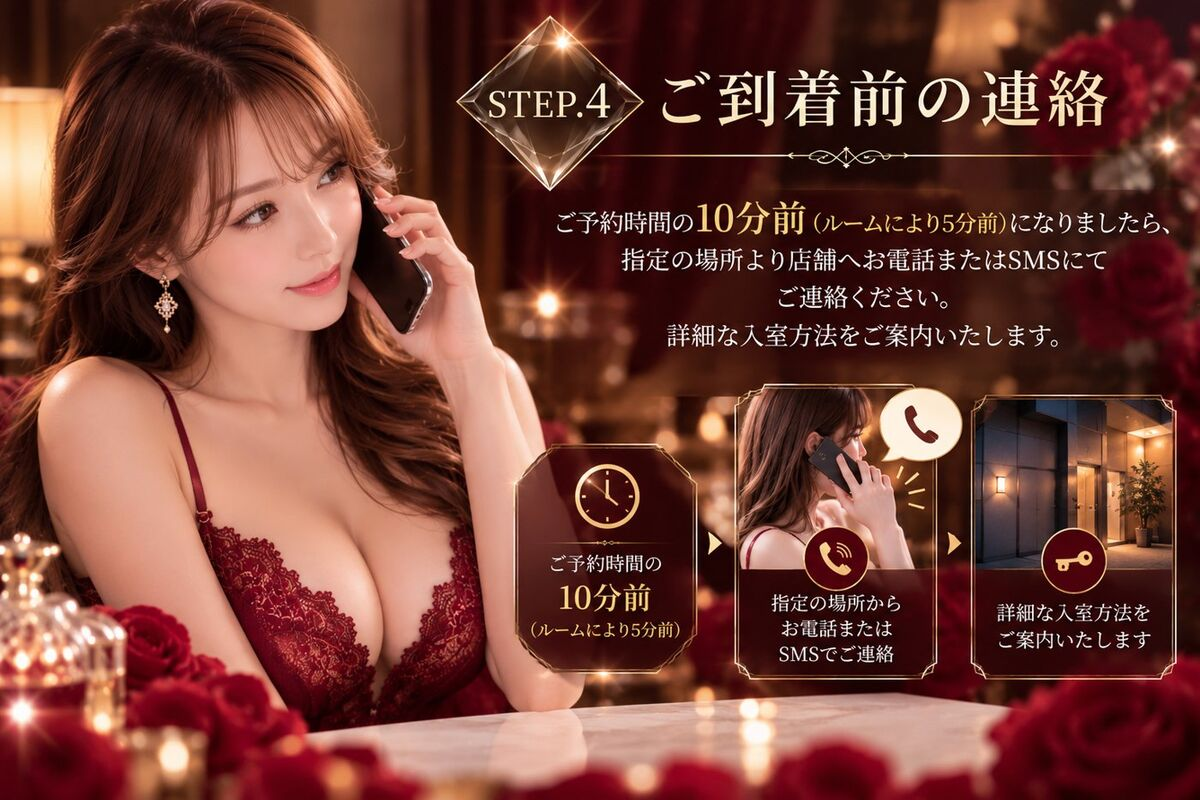
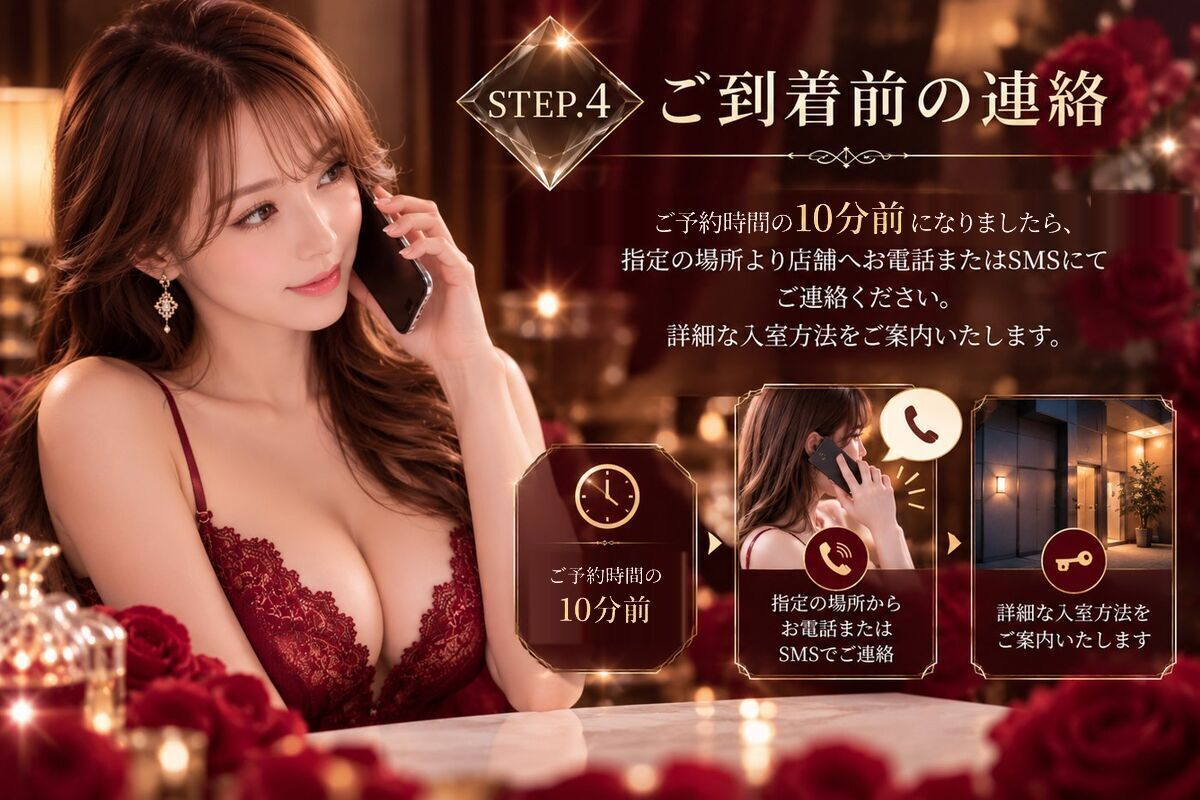
ルーム紹介ページを追加、「ルームにより5分前」の表記を削除 (#202)
- /room/ を新設（実際のルーム写真3枚：くつろぎスペース・施術スペース・バスルーム）。
  メニュー・フッター・サイトマップ・FAQ・トップの「癒やしの環境」から導線を追加
- トップの「癒やしの環境」の写真をイメージ写真から実際のルーム写真に差し替え
- ギャラリーに実際のルーム写真を追加
- ルームは1室のため「（ルームにより5分前）」を本文・トップ・STEP4画像から削除

Claude-Session: https://claude.ai/code/session_01UpCB7uCib8oiBmR56S5Apk

Changed region(s): [[0.4625, 0.2188, 1.0, 0.3125], [0.4317, 0.6875, 0.5858, 0.8125]]

diff --git a/app/room/page.jsx b/app/room/page.jsx
@@ -1,0 +1,145 @@
+// ルーム紹介（/room/）。写真はすべて実際のルーム（2026年11月撮影・オーナー提供）。
+// ※設備は写真で確認できるものだけを書く。推測で設備・アメニティを足さないこと。
+// ※色気のある表現はOK。ただし性的なサービスを連想させる表現は書かない
+//   （ご利用規約・FAQの「性的なサービスは一切行っておりません」と食い違うため）。
+// ※シャワーの利用時間（コース時間に含むか）は書かない（オーナー指示）。
+import SiteChrome from "../_components/SiteChrome";
+import NavGrid from "../_components/NavGrid";
+import Breadcrumbs from "../_components/Breadcrumbs";
+import { photoSrc } from "../_components/photo";
+import { SITE } from "../_lib/site";
+import { pageMetadata } from "../_lib/seo";
+
+export const metadata = pageMetadata("room");
+
+const SPACES = [
+  {
+    en: "Lounge",
+    h: "ふたりきりの、くつろぎ空間",
+    photo: "room-lounge.jpg",
+    w: 880,
+    h2: 660,
+    alt: "グレーのソファとラウンドテーブルのあるくつろぎスペース｜AROMA DIAMOND 亀戸",
+    p: [
+      "扉を閉めた瞬間から、ここはあなたとセラピストだけの時間。",
+      "壁に輝く DIAMOND のロゴに迎えられ、やわらかなソファに深く身を沈めれば、張りつめていた心がふっとほどけていきます。お着替え用のハンガーラックもご用意しています。",
+    ],
+  },
+  {
+    en: "Treatment",
+    h: "肌で感じる、とろける施術スペース",
+    photo: "room-bed.jpg",
+    w: 900,
+    h2: 1076,
+    alt: "ワイドなマットと黒いタオルで整えた施術スペース｜AROMA DIAMOND 亀戸",
+    p: [
+      "ゆったりと身体を伸ばせるワイドなマットに、黒で統一したタオル。",
+      "温めたアロマオイルがじんわりと肌になじみ、セラピストの指先がゆっくりと全身をたどるたびに、日々の疲れが溶けていく——。誰にも邪魔されない、大人のひとときをお愉しみください。",
+    ],
+  },
+  {
+    en: "Bath Room",
+    h: "シャワー完備のバスルーム",
+    photo: "room-bath.jpg",
+    w: 900,
+    h2: 1107,
+    alt: "シャワー・浴槽・洗面台のあるバスルーム｜AROMA DIAMOND 亀戸",
+    p: [
+      "清潔に整えた、シャワー・浴槽付きのバスルーム。",
+      "お仕事帰りでも、さっぱりとリフレッシュしていただけます。",
+    ],
+  },
+];
+
+const FACILITIES = [
+  ["ルーム", "1室のみの完全個室"],
+  ["くつろぎスペース", "ソファ・ラウンドテーブル・ハンガーラック"],
+  ["施術スペース", "ワイドマット・タオル"],
+  ["バスルーム", "シャワー・浴槽・洗面台"],
+  ["場所", `${SITE.station}${SITE.stationExit}から徒歩${SITE.walkMinutes}分（詳しい場所はご予約確定後にご案内）`],
+];
+
+export default function Room() {
+  return (
+    <div className="stage">
+      <div
+        className="device"
+        style={{ background: "#f4efe7 url(../bg-marble.jpg) top center / 100% auto repeat" }}
+      >
+        <Breadcrumbs items={[{ name: "ルーム紹介", path: "room/" }]} />
+
+        <div className="page-head">
+          <div className="ph-en">Room</div>
+          <h1 className="ph-jp">ルーム紹介</h1>
+        </div>
+
+        <NavGrid base="../" />
+
+        <section className="room-lead">
+          <p className="room-lead-catch">
+            1室だけの、
+            <br />
+            秘密の完全個室へ。
+          </p>
+          <p className="room-lead-p">
+            ブラックとホワイトで仕立てた、大人のためのプライベートルーム。
+            {SITE.station}{SITE.stationExit}から徒歩{SITE.walkMinutes}分、ほかの誰の目も気にせず、
+            アロマの香りとセラピストのぬくもりに身を委ねる——そんな贅沢な時間をご用意しています。
+          </p>
+        </section>
+
+        {SPACES.map((s, i) => (
+          <section className="room-space" key={s.photo}>
+            <div className="section-head">
+              <div className="sh-en">{s.en}</div>
+              <h2 className="sh-jp room-h">{s.h}</h2>
+            </div>
+            <div className="concept">
+              {/* eslint-disable-next-line @next/next/no-img-element */}
+              <img
+                className="concept-img"
+                src={photoSrc(s.photo, "../")}
+                alt={s.alt}
+                width={s.w}
+                height={s.h2}
+                loading={i === 0 ? "eager" : "lazy"}
+                decoding="async"
+              />
+              {s.p.map((t) => (
+                <p className="concept-p room-p" key={t}>
+                  {t}
+                </p>
+              ))}
+            </div>
+          </section>
+        ))}
+
+        <section className="rec-sec room-facts" aria-labelledby="room-facts-h">
+          <div className="rec-sec-h">
+            <span className="rec-sec-en">Facility</span>
+            <h2 className="rec-sec-jp" id="room-facts-h">ルーム設備</h2>
+          </div>
+          <table className="rec-table">
+            <tbody>
+              {FACILITIES.map(([k, v]) => (
+                <tr key={k}>
+                  <th>{k}</th>
+                  <td>{v}</td>
+                </tr>
+              ))}
+            </tbody>
+          </table>
+          <p className="img-note">※写真は実際のルームです</p>
+          <div className="hp-links">
+            <a className="hp-link" href="../system/">料金・コース</a>
+            <a className="hp-link" href="../flow/">ご利用の流れ</a>
+            <a className="hp-link" href="../schedule/">出勤情報</a>
+            <a className="hp-link hp-link-dark" href="../reserve/">WEB予約へ進む</a>
+          </div>
+        </section>
+
+        <SiteChrome base="../" />
+      </div>
+    </div>
+  );
+}

diff --git a/app/HomeClient.jsx b/app/HomeClient.jsx
@@ -80,7 +80,7 @@ const FIRST_STEPS = [
   },
   {
     t: "待ち合わせ・ご来店",
-    d: `${SITE.station}${SITE.stationExit}から亀戸十三間通りをお進みください。ご予約時間の10分前（ルームにより5分前）を目安に、セブン-イレブン亀戸十三間通り店に着きましたらお電話ください。お部屋までご案内します。`,
+    d: `${SITE.station}${SITE.stationExit}から亀戸十三間通りをお進みください。ご予約時間の10分前を目安に、セブン-イレブン亀戸十三間通り店に着きましたらお電話ください。お部屋までご案内します。`,
   },
   {
     t: "ご案内・施術",
@@ -516,8 +516,7 @@ export default function HomeClient() {
         </div>
         <section className="concept">
           {/* eslint-disable-next-line @next/next/no-img-element */}
-          <img className="concept-img" src={photoSrc("environment.jpg")} alt="落ち着いたプライベート空間のイメージ" width="1024" height="559" loading="lazy" decoding="async" />
-          <p className="img-note">※写真はイメージです</p>
+          <img className="concept-img" src={photoSrc("room-lounge.jpg")} alt="ソファでくつろげるAROMA DIAMOND 亀戸のルーム（実際の写真）" width="880" height="660" loading="lazy" decoding="async" />
           <h3 className="concept-h">
             完全個室の
             <br />
@@ -529,6 +528,9 @@ export default function HomeClient() {
             自分だけの隠れ家として、心と身体を解きほぐす特別な時間をお過ごしください。
           </p>
         </section>
+        <a className="more" href="room/">
+          ＞ ルーム紹介を見る ＜
+        </a>
 
         {/* ---------- RESERVATION ---------- */}
         <div className="section-head">

diff --git a/app/gallery/GalleryClient.jsx b/app/gallery/GalleryClient.jsx
@@ -8,8 +8,11 @@ const BASE = "../"; // /gallery/ はルートから1階層下
 // 表示する写真。実写真をいただければ public/ に追加し、この配列に足すだけで反映されます。
 // ※セラピスト個人の写真はここに直接書かない（退店・削除で画像が消えるとリンク切れになるため）。
 //   「みお」「花恋」は 2026/11/10 に管理画面から削除済みで、画像ファイルも無いため外した。
-// ※空間・イメージ写真は実際の店舗写真ではないため、キャプションに（イメージ）と明記する。
+// ※「ルーム｜」は実際のルーム写真。それ以外の空間・イメージ写真は実写ではないため（イメージ）と明記する。
 const GALLERY = [
+  { photo: "room-lounge.jpg", caption: "ルーム｜くつろぎスペース" },
+  { photo: "room-bed.jpg", caption: "ルーム｜施術スペース" },
+  { photo: "room-bath.jpg", caption: "ルーム｜バスルーム" },
   { photo: "environment.jpg", caption: "プライベート空間（イメージ）" },
   { photo: "concept.jpg", caption: "上質なひとときを（イメージ）" },
   { photo: "therapist-intro.jpg", caption: "セラピスト（イメージ）" },

diff --git a/app/globals.css b/app/globals.css
@@ -6653,3 +6653,42 @@ body:has(.rec-page) .aichat-fab {
   font-size: 11px;
   color: #7a6a52;
 }
+
+/* =========================================================
+   ルーム紹介（/room/）
+   ========================================================= */
+.room-lead {
+  position: relative;
+  z-index: 2;
+  margin: 18px 14px 4px;
+  padding: 22px 18px;
+  border: 1px solid #cdae62;
+  border-radius: 12px;
+  background: linear-gradient(135deg, #2a0a0d, #4a1218);
+  text-align: center;
+}
+.room-lead-catch {
+  margin: 0 0 12px;
+  font-family: var(--font-serif-jp), serif;
+  font-size: 21px;
+  font-weight: 600;
+  line-height: 1.7;
+  letter-spacing: 0.1em;
+  color: #edd39b;
+}
+.room-lead-p {
+  margin: 0;
+  font-family: var(--font-serif-jp), serif;
+  font-size: 13.5px;
+  line-height: 2;
+  text-align: left;
+  color: #f3e7cf;
+}
+.sh-jp.room-h {
+  font-size: 16px;
+  letter-spacing: 0.1em;
+}
+.concept-p.room-p { margin-top: 14px; }
+.concept-p.room-p + .concept-p.room-p { margin-top: 6px; }
+.room-facts { margin-top: 18px; }
+.room-facts .rec-table th { white-space: nowrap; }

diff --git a/app/first/page.jsx b/app/first/page.jsx
@@ -153,7 +153,7 @@ export default function FirstVisit() {
               <span className="no">STEP.4</span> ご到着前の連絡
             </div>
             <p>
-              ご予約時間の<b>10分前</b>（ルームにより5分前）になりましたら、
+              ご予約時間の<b>10分前</b>になりましたら、
               指定の場所より店舗へお電話またはSMSにてご連絡ください。
               詳細な入室方法をご案内いたします。
             </p>
@@ -164,7 +164,7 @@ export default function FirstVisit() {
               height="800"
               decoding="async"
               src={photoSrc("first-step4.jpg", "../")}
-              alt="STEP.4 ご到着前の連絡｜ご予約時間の10分前（ルームにより5分前）に、指定の場所からお電話またはSMSでご連絡ください"
+              alt="STEP.4 ご到着前の連絡｜ご予約時間の10分前に、指定の場所からお電話またはSMSでご連絡ください"
               loading="lazy"
             />
           </div>

diff --git a/app/_lib/seo.js b/app/_lib/seo.js
@@ -38,6 +38,12 @@ export const PAGES = {
     title: `アクセス・店舗案内｜亀戸駅徒歩${SITE.walkMinutes}分｜${BRAND}`,
     description: `AROMA DIAMOND（アロマダイヤモンド）は${WALK}、東京都江東区亀戸のメンズエステです。プライバシー保護のため、詳しい所在地はご予約確定後にご案内します。`,
   },
+  room: {
+    path: "room/",
+    title: `ルーム紹介｜${KAMEIDO} ${BRAND}`,
+    description: `AROMA DIAMOND（アロマダイヤモンド）亀戸のルーム紹介。${WALK}、1室だけの完全個室。ソファでくつろげる空間、ゆったりとした施術スペース、シャワー完備のバスルームを実際の写真でご紹介します。`,
+    image: "room-lounge.jpg",
+  },
   flow: {
     path: "flow/",
     title: `ご利用の流れ｜${KAMEIDO} ${BRAND}`,

diff --git a/app/_components/SiteChrome.jsx b/app/_components/SiteChrome.jsx
@@ -20,7 +20,8 @@ const DRAWER = [
   { jp: "スタッフ求人", slug: "careers" },
   { jp: "料金システム", slug: "system" },
   { jp: "セラピスト求人", slug: "recruit" },
-  { jp: "フォトギャラリー", slug: "gallery", wide: true },
+  { jp: "ルーム紹介", slug: "room" },
+  { jp: "フォトギャラリー", slug: "gallery" },
 ];
 
 const FOOT = [
@@ -29,6 +30,7 @@ const FOOT = [
   { en: "Therapist", jp: "セラピスト", slug: "therapist" },
   { en: "System", jp: "料金システム", slug: "system" },
   { en: "Access", jp: "アクセス", slug: "access" },
+  { en: "Room", jp: "ルーム紹介", slug: "room" },
   { en: "Foreigner", jp: "外国人の方へ", slug: "foreigners" },
   { en: "Careers", jp: "スタッフ求人", slug: "careers" },
   { en: "Recruit", jp: "セラピスト求人", slug: "recruit" },

diff --git a/app/faq/page.jsx b/app/faq/page.jsx
@@ -95,6 +95,15 @@ const GROUPS = [
         ),
       },
       {
+        q: "どんなお部屋ですか？シャワーはありますか？",
+        a: (
+          <>
+            1室のみの完全個室で、ソファのあるくつろぎスペースと施術スペース、シャワー・浴槽付きのバスルームがあります。
+            実際の写真を<a href="../room/">ルーム紹介</a>でご覧いただけます。
+          </>
+        ),
+      },
+      {
         q: "どのようなサービスですか？",
         a: (
           <>

diff --git a/app/sitemap.js b/app/sitemap.js
@@ -18,6 +18,7 @@ export default function sitemap() {
     ["therapist/", 0.9],
     ["system/", 0.8],
     ["access/", 0.7],
+    ["room/", 0.7],
     ["reserve/", 0.8],
     ["membership/", 0.7],
     ["gallery/", 0.6],
